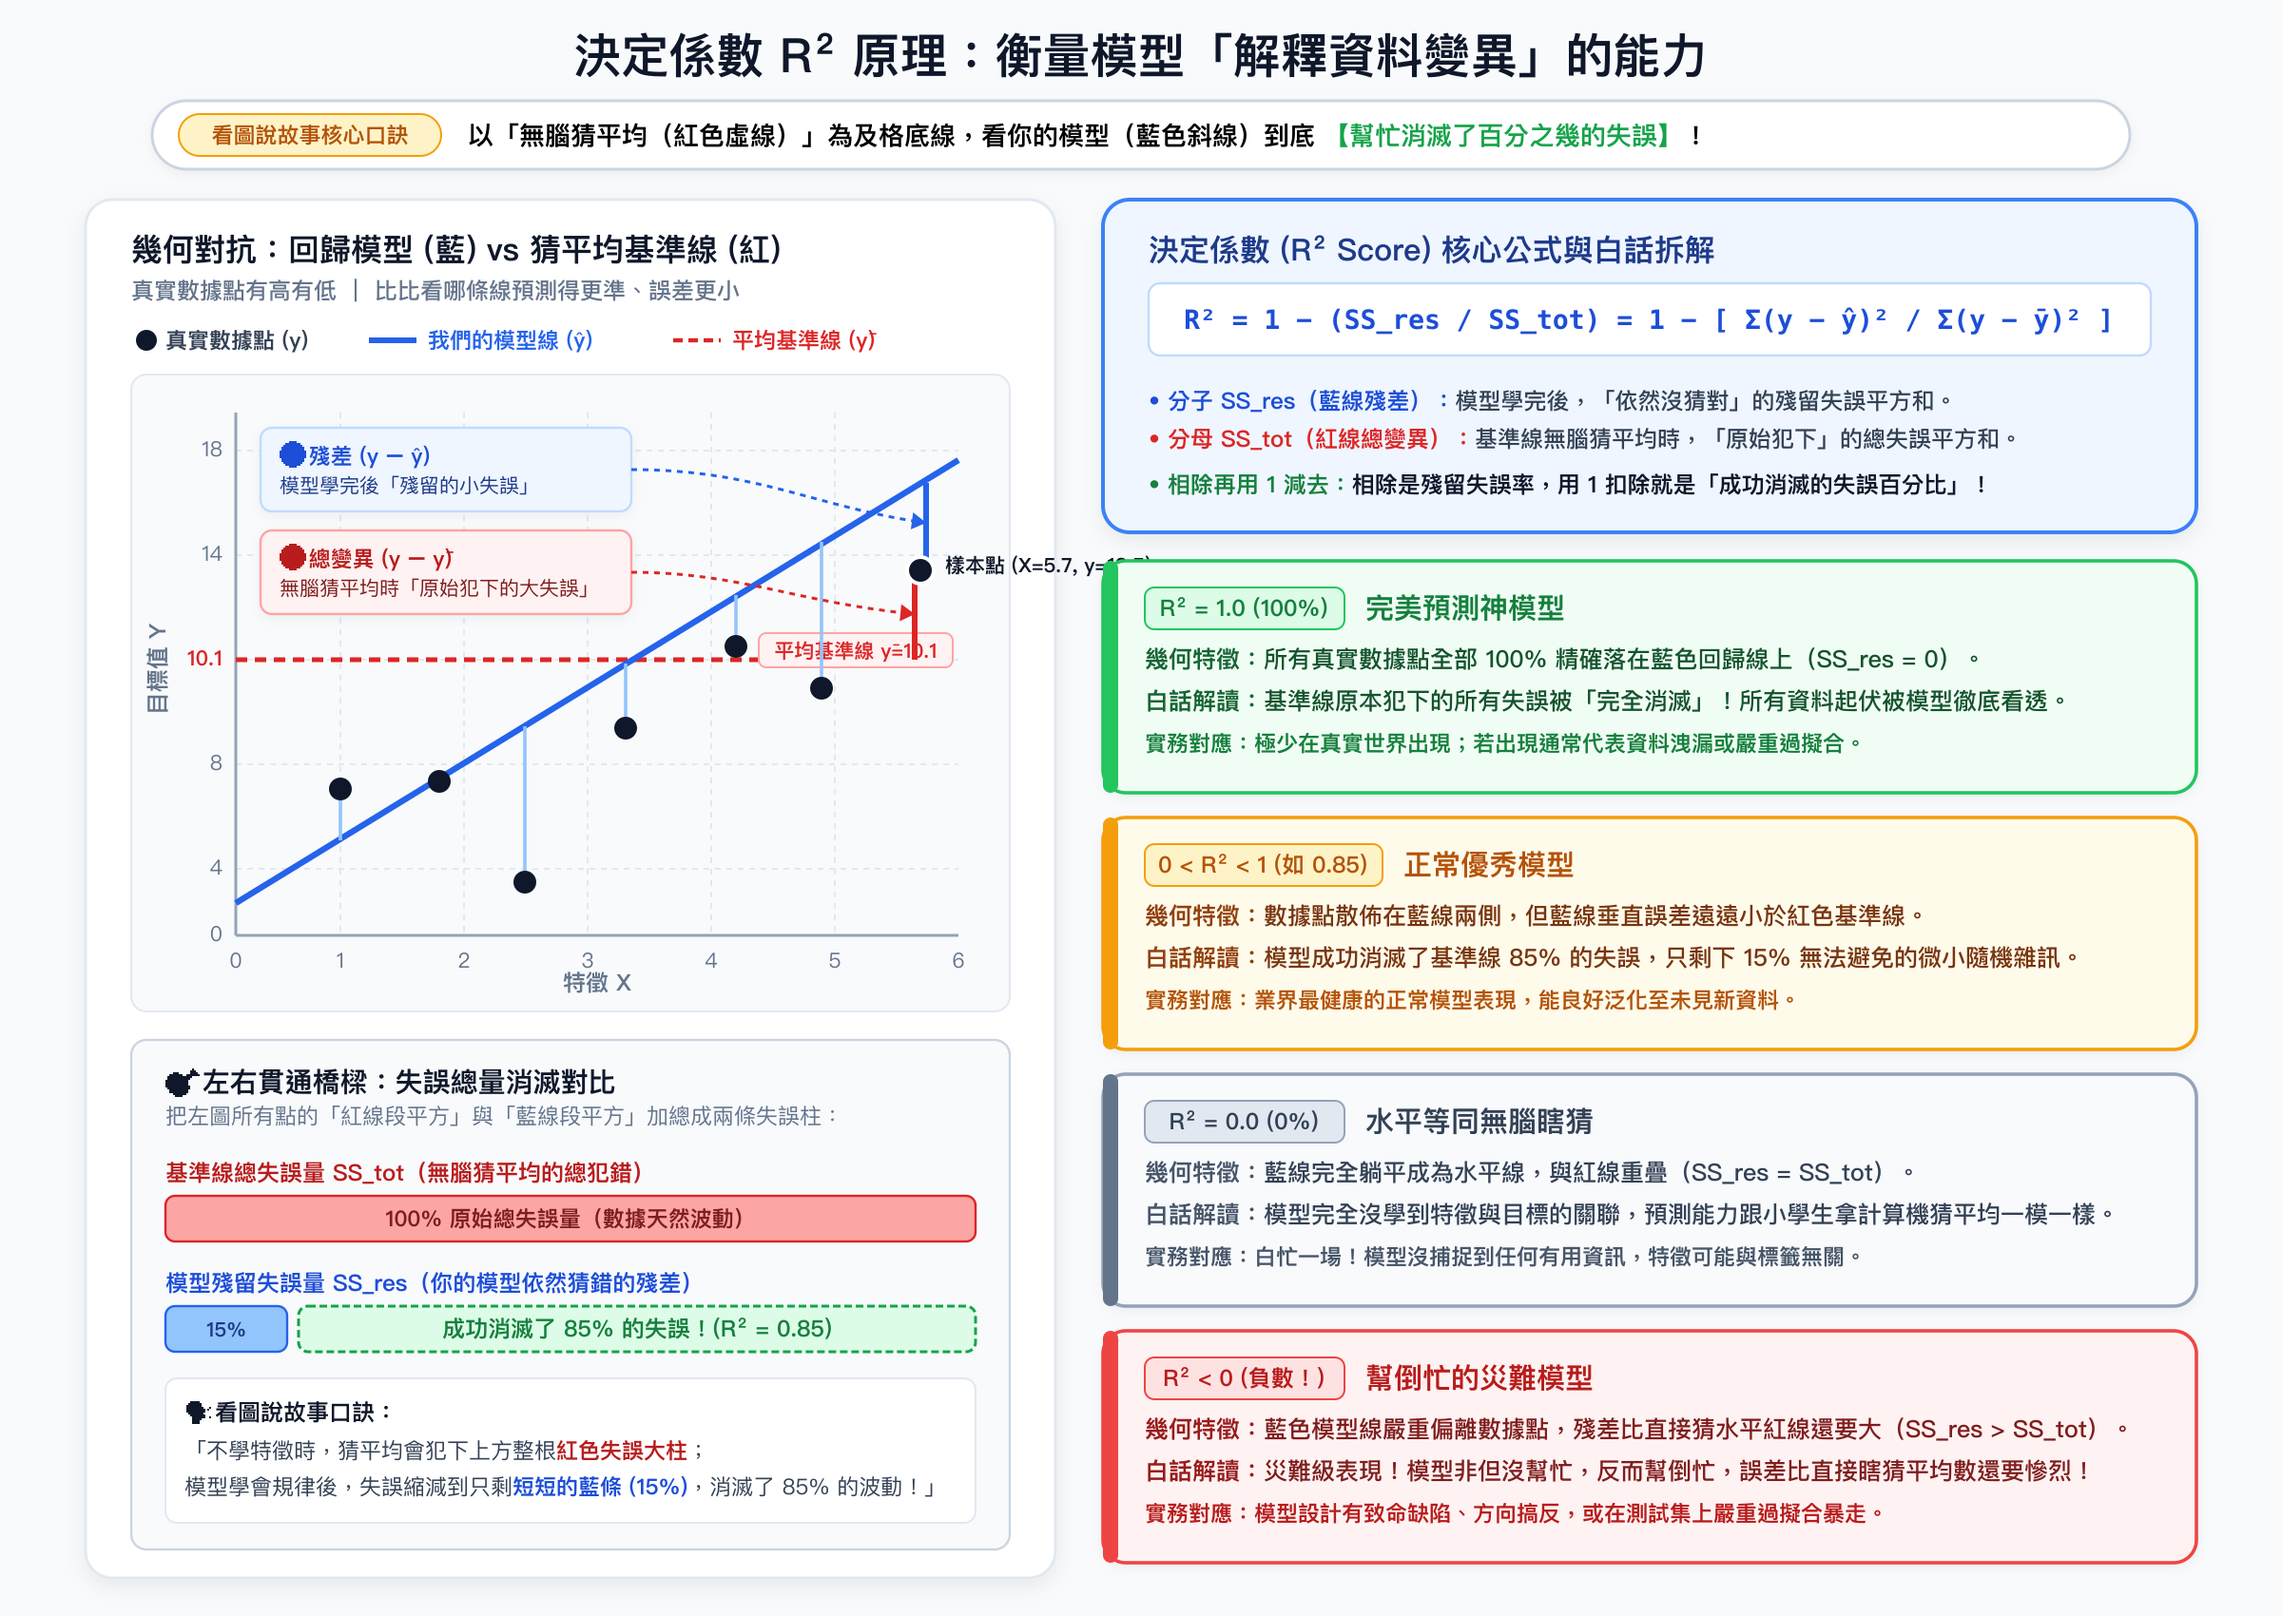
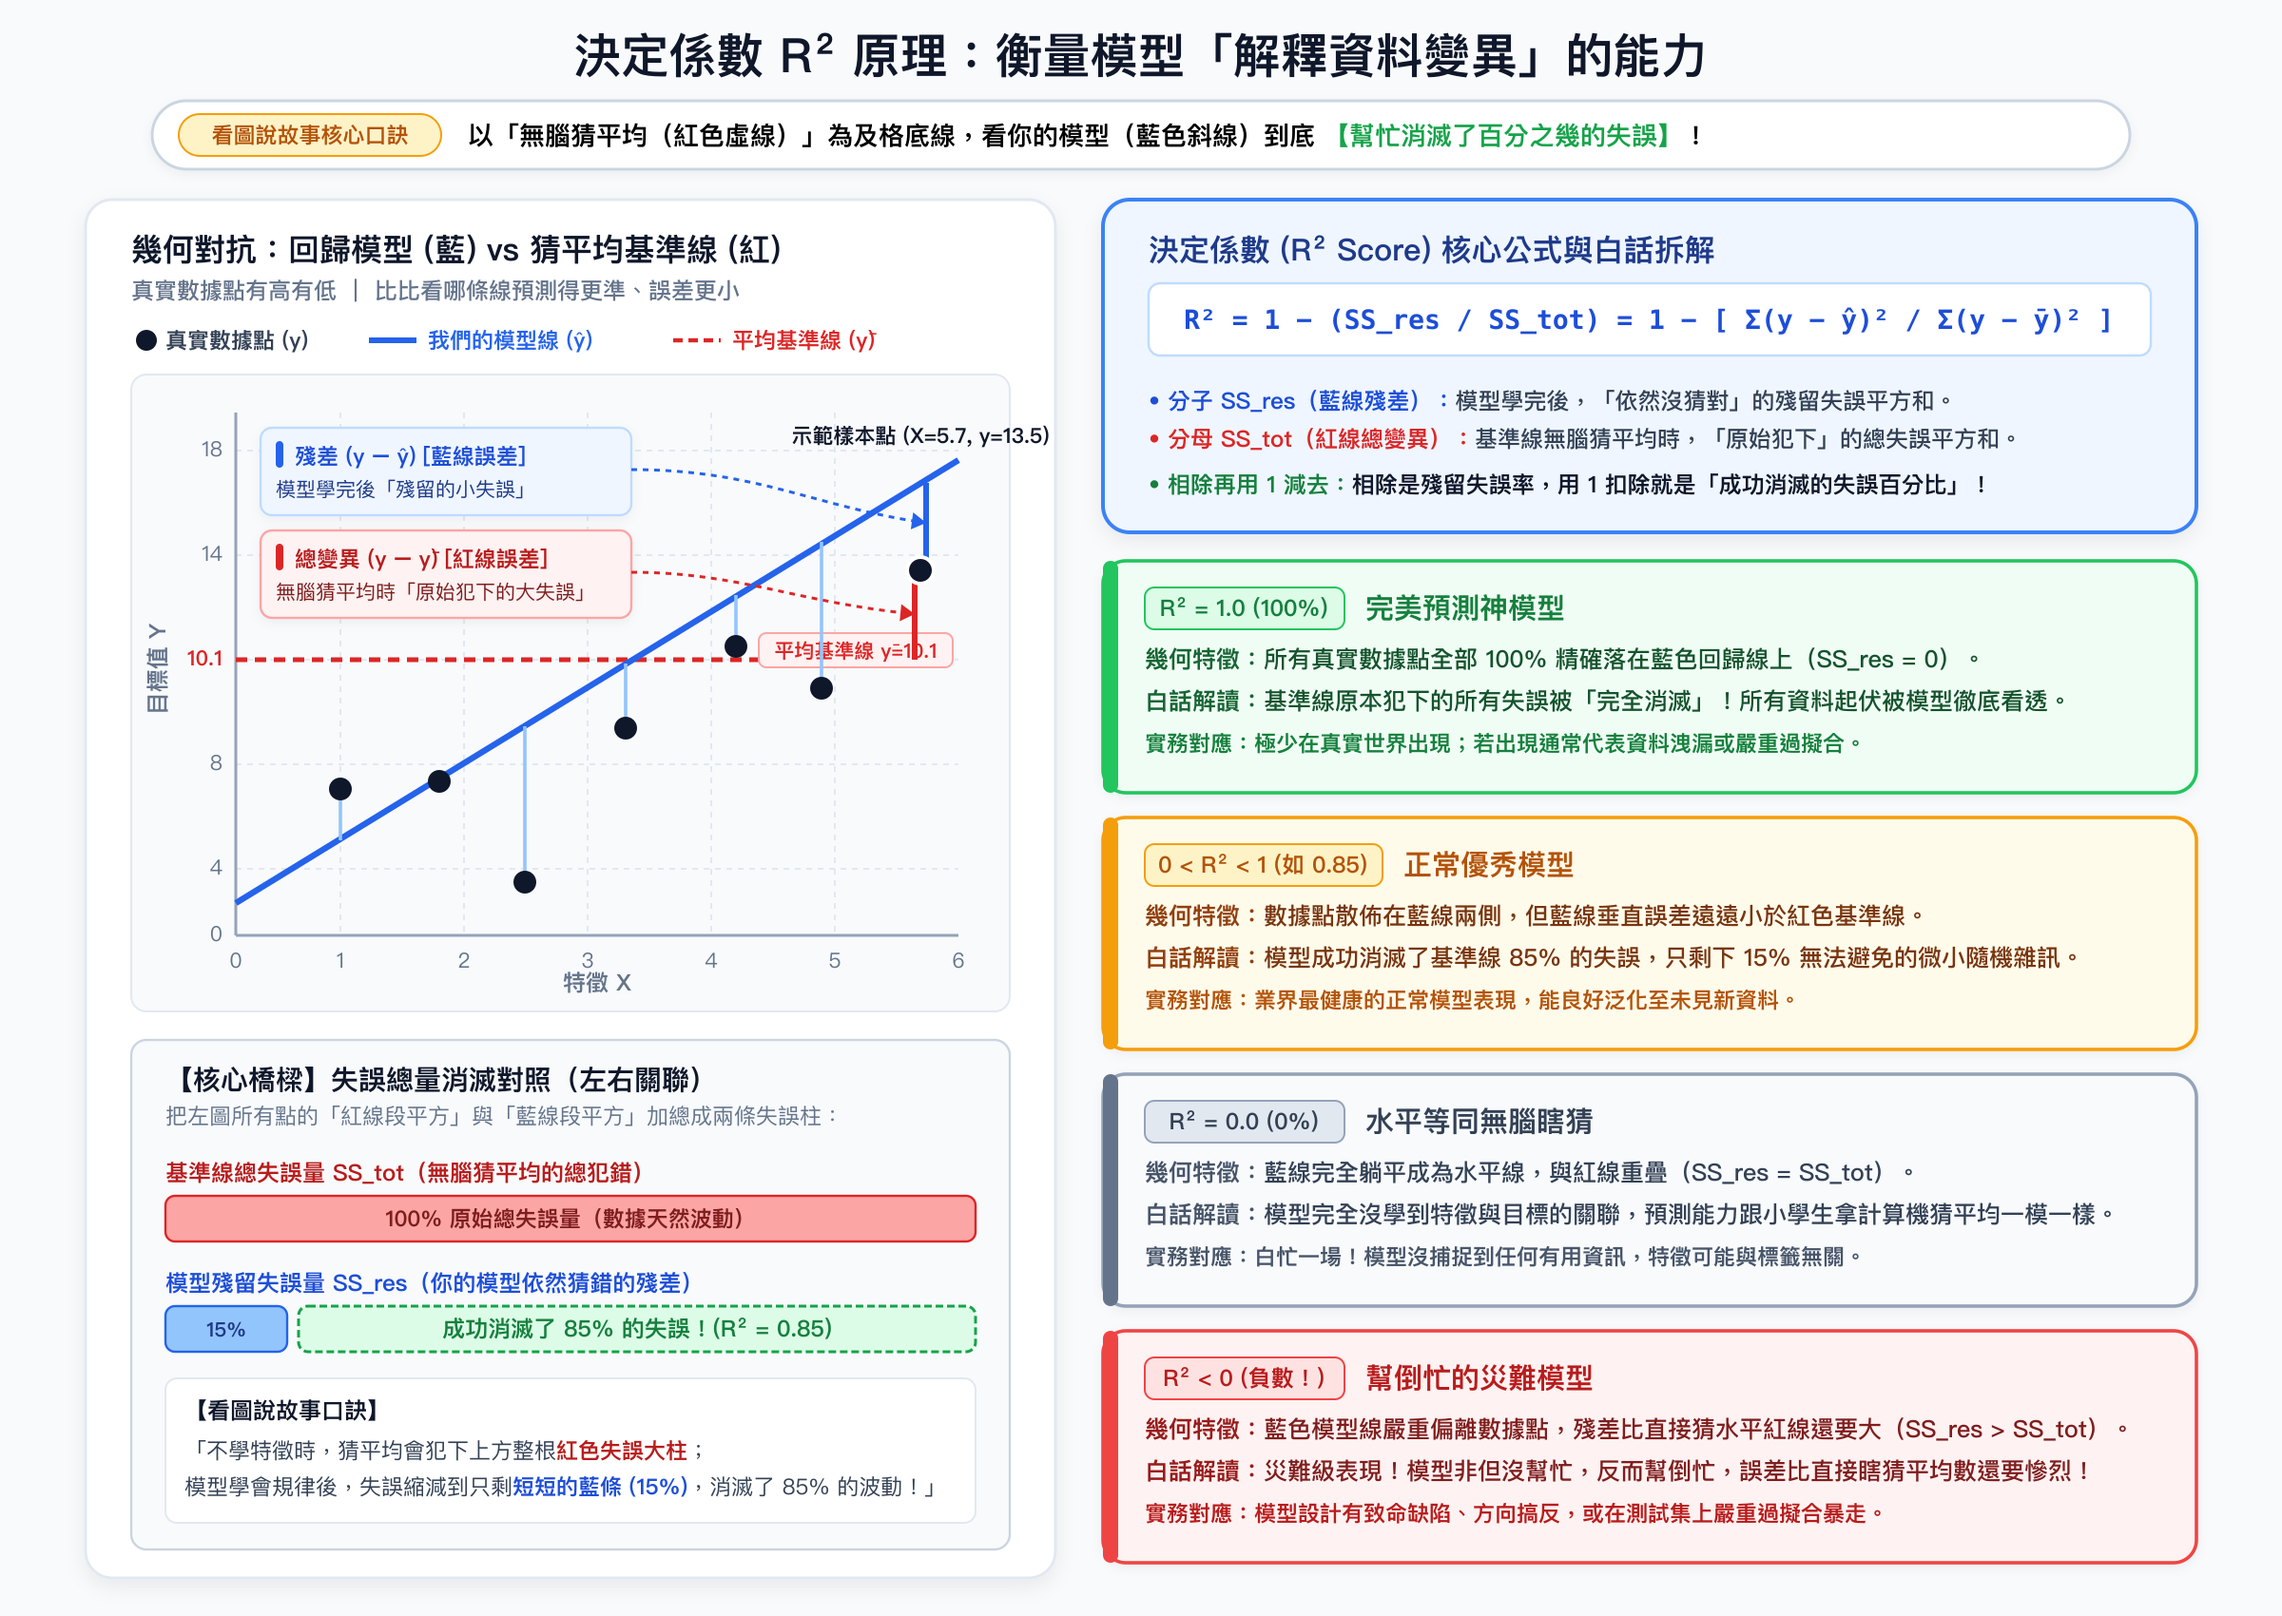
docs: update R-squared evaluation metric documentation and assets

diff --git a/名詞解釋/09_評估指標/README.md b/名詞解釋/09_評估指標/README.md
@@ -253,6 +253,23 @@ $R^2$ 衡量回歸模型**「能夠解釋數據中總變異性 (Variance) 的百
    - $1 - \frac{SS_{\text{res}}}{SS_{\text{tot}}}$：你的模型**成功幫忙消滅了百分之幾的失誤**！
    - 例如 $R^2 = 0.85$：代表模型成功消滅了基準線原本犯下的 85% 失誤，只剩下 15% 小誤差，模型掌握了 85% 的規律！
 
+#### 🗣 左右對應：如何看圖說故事？（30 秒口訣話術）
+
+面對主管、面試官或同事，如何用這張圖流暢地「看圖說故事」？請依循以下四幕：
+
+* **第 1 幕（看左上紅虛線：設定及格底線）**：  
+  「先看左圖這條**水平紅虛線**，這是猜平均值的『基準笨模型』。如果不看特徵只猜平均，各點到紅線的紅色垂直差距平方加總，就是它犯下的**總失誤量 $SS_{\text{tot}}$**。」
+* **第 2 幕（看左上藍實線：我們訓練的主角）**：  
+  「接著看這條**藍色回歸斜線**，這是我們加入特徵學出的模型。各點到藍線的垂直差距，就是我們模型學完後**依然沒猜中的殘留誤差 $SS_{\text{res}}$**。」
+* **第 3 幕（看左下長條圖與右上公式：算失誤消滅率）**：  
+  「左下方將兩者化為長條圖：原本笨模型犯下整根長長的**紅柱失誤 (100%)**，在我們的模型介入後，失誤大幅萎縮只剩**短短的藍柱 (15%)**！中間消滅的 85% 綠色區域，就是右邊公式算出來的 **$R^2 = 1 - \frac{15}{100} = 0.85$**！」
+* **第 4 幕（看右下 4 種光譜：判定模型生死）**：  
+  「最後看右側 4 種模型結局：  
+  - 誤差全消滅？$\rightarrow R^2 = 1.0$（完美預測）  
+  - 消滅 85% 誤差？$\rightarrow R^2 = 0.85$（優秀健康模型）  
+  - 藍柱跟紅柱一樣長？$\rightarrow R^2 = 0.0$（白忙一場，跟瞎猜平均一樣）  
+  - 藍柱比紅柱還長？$\rightarrow R^2 < 0$（負數！模型越幫越忙，大翻車！）」
+
 #### 🎬 互動動畫導覽與操作指引（如何解讀與介紹？）
 
 本動畫將回歸模型與「基準笨模型」的對抗過程完全視覺化，可由以下三個視角來解讀：
